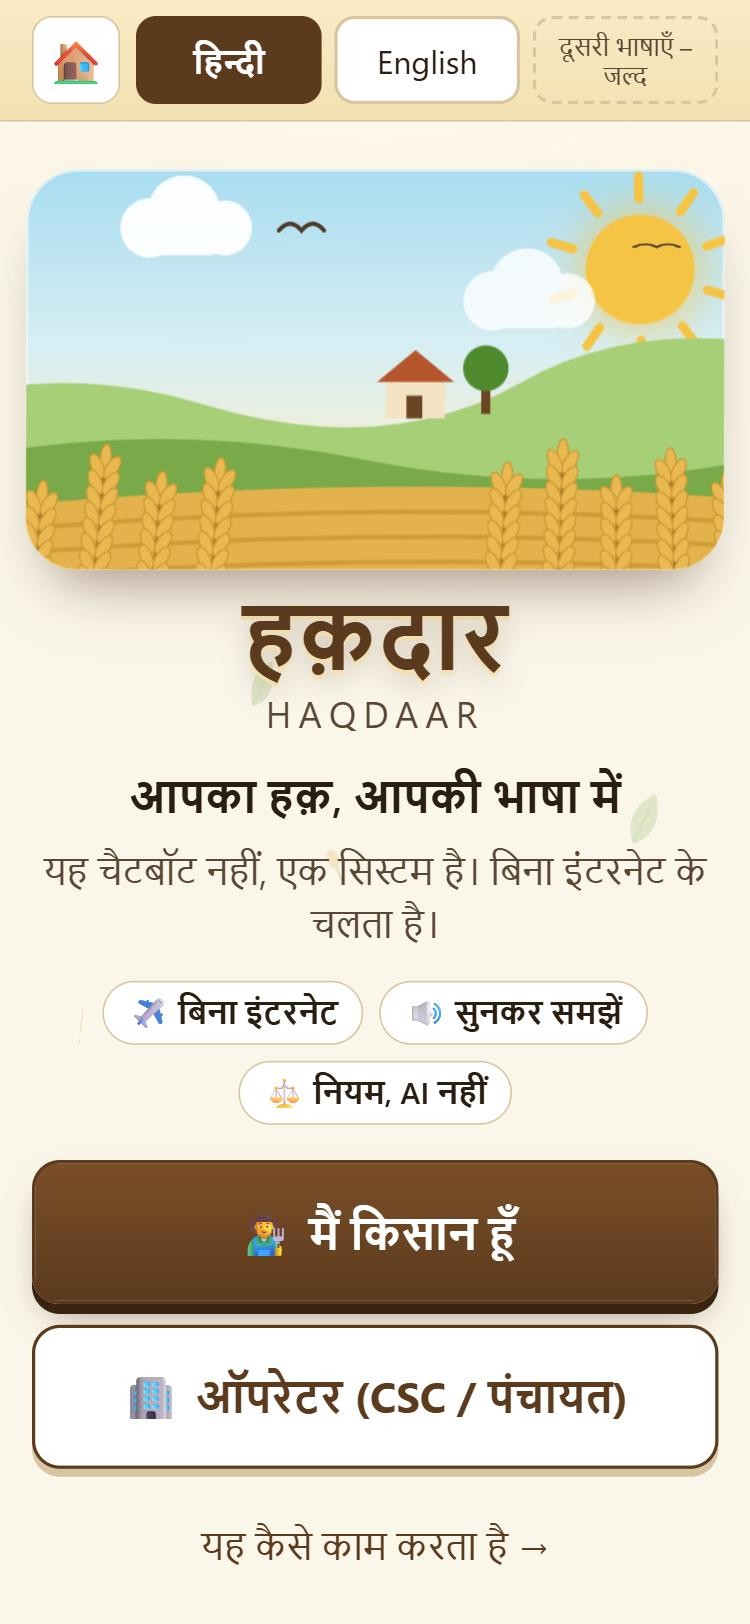
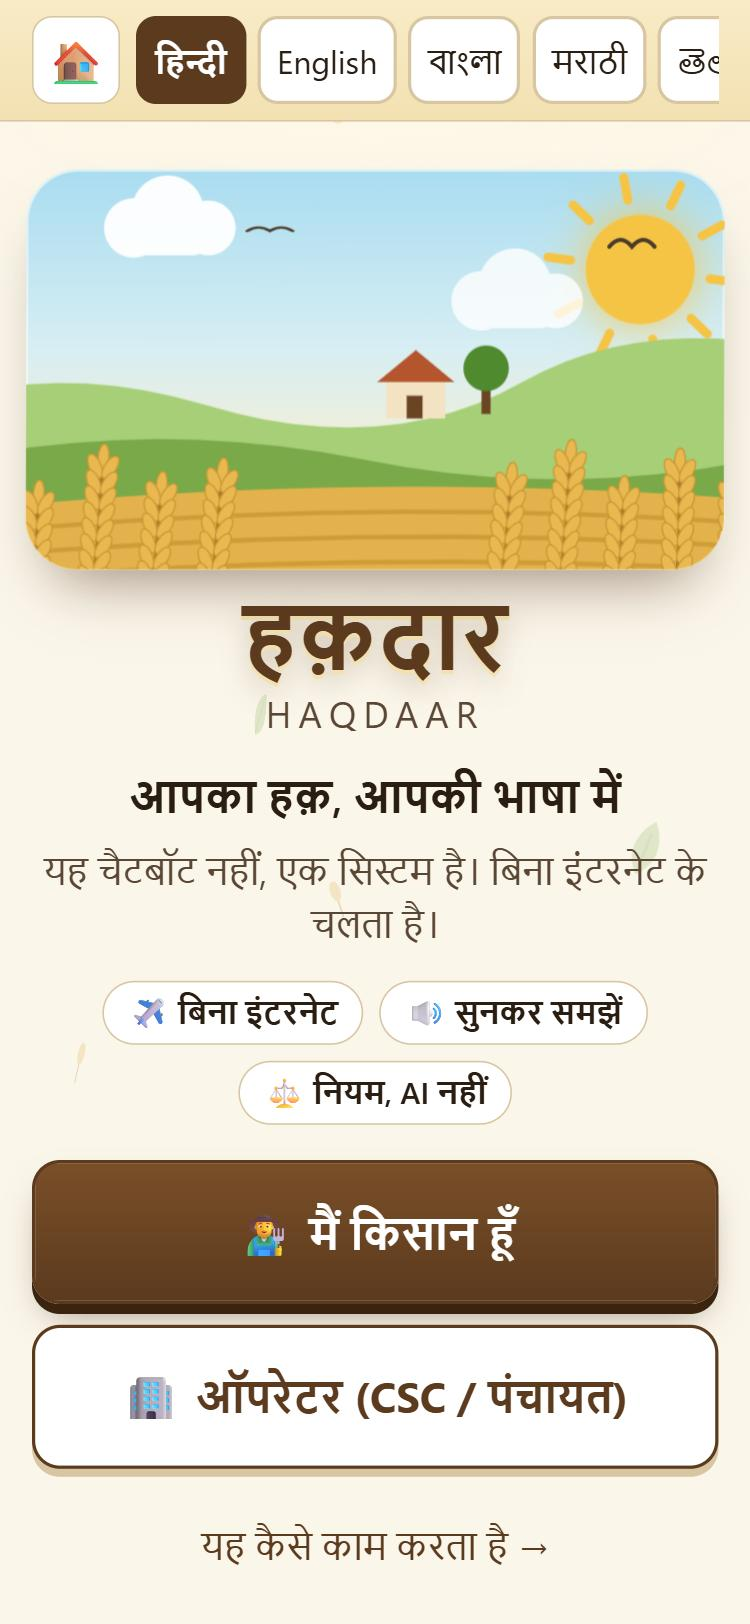
README: close the open ends
- Retake all screenshots from the current build; add a Telugu one.
- Sources table: West Bengal MKSN and top-up, PM-KMY cut-off, official
  links for every new scheme, and how each rule was checked.
- Crop lists now cite pmfby.gov.in; Rabi 2026-27 status stated.
- Real-phone test results, current checks, 59 tests, honest limits.
- Who built it, and a new AI tools section.

diff --git a/README.md b/README.md
@@ -4,7 +4,7 @@
 
 **Team Root Access** · Catalyst Hack 2026 · Track 07: AgriTech & Rural Innovation
 
-**Built by Team Root Access:** Chaarvi Saxena, Yashi Savita, Vivek Singh, Ishan Singh Bhadoria, Divyanshu Tripathi
+**Team Root Access:** Chaarvi Saxena, Yashi Savita, Vivek Singh, Ishan Singh Bhadoria, Divyanshu Tripathi · **Built by:** Chaarvi Saxena
 
 | | |
 |---|---|
@@ -32,6 +32,7 @@
 14. [Testing](#14-testing)
 15. [Project structure](#15-project-structure)
 16. [Honest limits](#16-honest-limits)
+17. [AI tools used](#17-ai-tools-used)
 
 ---
 
@@ -82,19 +83,21 @@ It has two modes in one app:
 
 **How Haqdaar differs from online checkers** such as Bharat-VISTAAR (155261) and myScheme: it works offline, gives a reason for every result, prints a plan on paper, and reminds the operator before deadlines.
 
-**Prototype scope:** 5 central schemes for all of India (PM-KISAN, PM Fasal Bima Yojana, Kisan Credit Card, Soil Health Card, PM Kisan Maandhan pension) and 5 state schemes (Maharashtra, Telangana, West Bengal, Tamil Nadu). The first question asks the farmer's state, and a state scheme shows only in its own state. The crop insurance list is for the demo district, Lucknow (Uttar Pradesh). Languages: Hindi, English, Bengali, Marathi, Punjabi, Tamil, Telugu.
+**Prototype scope:** 5 central schemes for all of India (PM-KISAN, PM Fasal Bima Yojana, Kisan Credit Card, Soil Health Card, PM Kisan Maandhan pension) and 6 state schemes in 4 states (Maharashtra, Telangana, West Bengal, Tamil Nadu). The first question asks the farmer's state, and a state scheme shows only in its own state. The crop insurance list is for the demo district, Lucknow (Uttar Pradesh). Languages: Hindi, English, Bengali, Marathi, Punjabi, Tamil, Telugu.
 
 ## 3. Screenshots
 
-All screenshots were taken from the live app (https://haqdaar-one.vercel.app/) on 1 Nov 2026, at phone width. The farmers shown are fictional examples.
+All screenshots were taken on 1 Nov 2026 at phone width (375 px) from the same build that is live at https://haqdaar-one.vercel.app/. The farmers shown are fictional examples.
 
 | Start page (Hindi) | One question per screen | Results with money card |
 |:---:|:---:|:---:|
-| <img src="docs/screenshots/01-start.jpg" width="230" alt="Start page in Hindi with the farm picture, the farmer button and the operator button"> | <img src="docs/screenshots/02-question.jpg" width="230" alt="Question 1 of 10 about land, with big answer buttons, a Listen button and a tractor progress bar"> | <img src="docs/screenshots/03-results.jpg" width="230" alt="Results page with the next deadline, the Haqdaar ID and Rs 6,000 a year from PM-KISAN"> |
+| <img src="docs/screenshots/01-start.jpg" width="230" alt="Start page in Hindi with the language row, the farm picture, the farmer button and the operator button"> | <img src="docs/screenshots/02-question.jpg" width="230" alt="Question 1 of 12: which state is your farm land in, with big answer buttons, a Listen button and a tractor progress bar"> | <img src="docs/screenshots/03-results.jpg" width="230" alt="Results page with the next deadline, the Haqdaar ID, Rs 6,000 a year from PM-KISAN and 5 schemes likely eligible"> |
 | **A scheme card: status, reasons, benefit, deadline, source** | **Checklist of papers to bring** | **Printable slip with QR code** |
-| <img src="docs/screenshots/04-scheme-card.jpg" width="230" alt="PM Fasal Bima Yojana card: likely eligible, two reasons, benefit, last date 31 December 2026 and the official source"> | <img src="docs/screenshots/05-checklist.jpg" width="230" alt="Checklist with tick boxes, 2 of 12 papers ready and an e-KYC tip"> | <img src="docs/screenshots/06-slip.jpg" width="230" alt="Slip with Haqdaar ID, QR code, each scheme's status and reason, and the papers to bring"> |
-| **Operator sign-in** | **Operator "Check only", in English** | **How it works / About** |
-| <img src="docs/screenshots/07-operator-signin.jpg" width="230" alt="Operator sign-in page with the Only check, without saving button"> | <img src="docs/screenshots/08-check-only-english.jpg" width="230" alt="Check only results in English for a landless sharecropper: PM-KISAN likely not eligible because it needs land in the family's name"> | <img src="docs/screenshots/09-about.jpg" width="230" alt="About page diagram: farmer phone or CSC operator, then questions, rules engine and results on the phone, then cloud sync only with internet"> |
+| <img src="docs/screenshots/04-scheme-card.jpg" width="230" alt="PM Fasal Bima Yojana card: likely eligible, two reasons, benefit, last date 31 December 2026 and the official source"> | <img src="docs/screenshots/05-checklist.jpg" width="230" alt="Checklist with tick boxes, 2 of 15 papers ready and an e-KYC tip"> | <img src="docs/screenshots/06-slip.jpg" width="230" alt="Slip with Haqdaar ID, QR code, each scheme's status and reason, and the papers to bring"> |
+| **Operator sign-in** | **Operator "Check only", in English: a West Bengal state scheme** | **How it works / About** |
+| <img src="docs/screenshots/07-operator-signin.jpg" width="230" alt="Operator sign-in page with the Only check, without saving button"> | <img src="docs/screenshots/08-check-only-english.jpg" width="230" alt="Check only result in English for a landless sharecropper in West Bengal: Mukhyamantri Krishak Samman Nidhi likely eligible, with every reason and the official source"> | <img src="docs/screenshots/09-about.jpg" width="230" alt="About page diagram: farmer phone or CSC operator, then questions, rules engine and results on the phone, then cloud sync only with internet"> |
+| **Telugu: Telangana state schemes** | | |
+| <img src="docs/screenshots/10-telugu-state-scheme.jpg" width="230" alt="Results in Telugu for a Telangana farmer: Rythu Bharosa and Rythu Bima likely eligible, with reasons, benefit and source"> | | |
 
 ## 4. Key features
 
@@ -122,7 +125,7 @@ All screenshots were taken from the live app (https://haqdaar-one.vercel.app/) o
 **For everyone**
 - Works in airplane mode after the first visit.
 - 7 languages (Hindi, English, Bengali, Marathi, Punjabi, Tamil, Telugu), switchable on every page.
-- State schemes for Maharashtra, Telangana, West Bengal and Tamil Nadu, shown only to farmers in that state.
+- 6 state schemes for Maharashtra, Telangana, West Bengal and Tamil Nadu, shown only to farmers in that state.
 - Each result links to the official scheme website and shows the date we last checked it.
 
 ## 5. Technology stack
@@ -159,7 +162,7 @@ All screenshots were taken from the live app (https://haqdaar-one.vercel.app/) o
 | vitest | 5.0.5 | Tests |
 | @types/qrcode, @types/react, @types/react-dom, @types/node | 1.5.6, 19.3.0, 19.3.0, 24.19.2 | TypeScript types |
 
-No PDF library is used. The slip is a normal page printed with the browser's Print / Save as PDF, so Hindi prints correctly.
+No PDF library is used. The slip is a normal page printed with the browser's Print / Save as PDF, so Hindi and every other Indian script print correctly.
 
 No code was written before 1 Nov 2026. All the code was written from scratch during the Grand Finale on 1 Nov 2026.
 
@@ -194,7 +197,7 @@ No code was written before 1 Nov 2026. All the code was written from scratch dur
 ### 6.2 The rules engine (`src/engine/`)
 
 1. **Questions → answers.** Up to 12 screens collect: state, land, land received after 1 Feb 2019, tenant/sharecropper, age, income tax, pension or government job, professional or elected post, bank–Aadhaar link and e-KYC, season and crop, Kisan Credit Card, last soil test.
-2. **Answers → facts** (`facts.ts`): `ownsLand`, `cultivates` (owns land or farms someone else's land), `cropNotified` (the farmer is in Uttar Pradesh and the crop is on the Lucknow insurance list for that season; elsewhere the farmer is asked to confirm the crop).
+2. **Answers → facts** (`facts.ts`): `ownsLand`, `cultivates` (owns land or farms someone else's land), `cropNotified` (the farmer is in Uttar Pradesh and the crop is on the Lucknow insurance list for that season; elsewhere the farmer is asked to confirm the crop at the office).
 3. **Facts → result** (`evaluate.ts`). Each scheme in `schemes.json` has conditions such as `{ field: "incomeTax", op: "notEquals", value: "yes", failAs: "not_eligible" }`. Every condition is checked, then:
    - any failed condition marked `not_eligible` → **likely not eligible** (a firm "no" always wins);
    - else, if the scheme's "already have" check passes → **already have it**;
@@ -391,14 +394,15 @@ No other code change is needed.
 | PMFBY crop insurance | For owners and tenants/sharecroppers. Crop not on the district list → ask the office. Farmer pays at most 2% (Kharif), 1.5% (Rabi food and oilseed crops), 5% (commercial and horticulture crops). Report crop loss within 72 hours; helpline 14447. | https://pmfby.gov.in (FAQ) and a reply in Parliament (Lok Sabha) | 1 Nov 2026 |
 | Kisan Credit Card | For anyone who farms. "Already have it" if they have a KCC or crop loan. Loans at 7%, 4% with prompt repayment; low-interest limit raised from ₹3 lakh to ₹5 lakh; collateral-free up to ₹2 lakh. | https://www.pib.gov.in/PressReleasePage.aspx?PRID=2238004 (PIB, 11 Mar 2026) | 1 Nov 2026 |
 | Soil Health Card | For anyone who farms. "Already have it" if the soil was tested in the last 2 years; otherwise the test is due. Card every 2 to 3 years (official pages give both). | https://soilhealth.dac.gov.in | 1 Nov 2026 |
-| PM Kisan Maandhan Yojana (pension, all India) | Land in your name, up to 2 ha (about 5 acres), age 18 to 40 when joining. Not for income-tax payers or people already in NPS, ESIC or EPFO. ₹3,000 a month after age 60; the farmer pays ₹55 to ₹200 a month and the government adds the same. | https://maandhan.in and the PM-KMY guidelines on pmkisan.gov.in | 1 Nov 2026 |
-| Namo Shetkari Mahasanman Nidhi (Maharashtra only) | Same rules as PM-KISAN. ₹6,000 a year from the state, on top of PM-KISAN. | https://www.myscheme.gov.in/schemes/namo-shetkari-mahasanman-nidhi-yojana | 1 Nov 2026 |
-| Rythu Bharosa (Telangana only) | For farmers with land in a pattadar passbook. Tenants with no land → ask the office. ₹12,000 per acre a year (₹6,000 per acre each season). | https://www.myscheme.gov.in (Telangana) | 1 Nov 2026 |
-| Rythu Bima (Telangana only) | Pattadar passbook holders aged 18 to 59. ₹5 lakh to the family on the farmer's death; the state pays the premium. | https://www.myscheme.gov.in/schemes/rythu-bima | 1 Nov 2026 |
-| Krishak Bandhu (West Bengal only) | Farmers and recorded sharecroppers (bargadars). Up to ₹10,000 a year (at least ₹4,000 below 1 acre). ₹2 lakh death benefit for ages 18 to 60. | https://krishakbandhu.wb.gov.in | 1 Nov 2026 |
-| CM Uzhavar Pathukappu Thittam (Tamil Nadu only) | Cultivators and tenants aged 18 to 65 with wet land up to 2.5 acres or dry land up to 5 acres. 1 to 5 acres or age 60+ → ask the office (wet/dry limit, age limit 65). Farm workers → ask the office. Benefit amounts are not given; the farmer asks the office. | https://oap.tn.gov.in/cmupt | 1 Nov 2026 |
+| PM Kisan Maandhan Yojana (pension, all India) | Land in your name, up to 2 ha (about 5 acres), in the land records by 1 Aug 2019 (land got after Feb 2019 → ask at the CSC), age 18 to 40 when joining. ₹3,000 a month after age 60; the farmer pays ₹55 to ₹200 a month and the government adds the same. Income-tax payers and people with a government job or big pension → not eligible; people already in NPS, ESIC or EPFO cannot join (note on the slip). | https://www.pib.gov.in/PressReleaseIframePage.aspx?PRID=2053142 (PIB, 9 Sep 2024) | 1 Nov 2026 |
+| Namo Shetkari Mahasanman Nidhi (Maharashtra only) | Farmers eligible for PM-KISAN get it, so the same rules as PM-KISAN. ₹6,000 a year from the state in 3 instalments, on top of PM-KISAN (Government Resolution of 15 Jun 2023). | https://www.myscheme.gov.in/schemes/namo-shetkari-mahasanman-nidhi-yojana | 1 Nov 2026 |
+| Rythu Bharosa (Telangana only) | For farmers with land in a pattadar passbook. Tenants with no land → ask the office. ₹12,000 per acre a year (₹6,000 per acre each season). | https://www.newsonair.gov.in/telangana-farmers-to-receive-₹12000-per-acre-annually-under-rythu-bharosa-scheme/ (All India Radio) | 1 Nov 2026 |
+| Rythu Bima (Telangana only) | Pattadar passbook (or RoFR patta) holders aged 18 to 59. ₹5 lakh to the nominee on the farmer's death, natural or accidental; the state pays the premium. | https://www.myscheme.gov.in/schemes/rythu-bima | 1 Nov 2026 |
+| PM-KISAN top-up (West Bengal only) | Same rules as PM-KISAN. ₹3,000 a year more from the state, in 3 instalments of ₹1,000, so ₹9,000 a year in all. | WB Agriculture Dept notification No. 1128-AG/O/9M(Nab)-56/2026, 29 Oct 2026: https://krishakbandhu.wb.gov.in/download_notification16 | 1 Nov 2026 |
+| Mukhyamantri Krishak Samman Nidhi, MKSN (West Bengal only) | Replaces Krishak Bandhu (same notification). For families not on PM-KISAN: land owners, registered bargadars, sharecroppers and patta holders with a land record. Same exclusions as PM-KISAN. ₹6,000 a year for 40 decimals or more, ₹4,000 below that, in Kharif and Rabi instalments. Sharecropper → likely eligible if recorded; land owner → ask the office (PM-KISAN farmers get the top-up instead). Land held on 1 Jul 2026 counts. | Same notification | 1 Nov 2026 |
+| CM Uzhavar Pathukappu Thittam (Tamil Nadu only) | Cultivators, cultivating tenants and landless farm workers aged 18 to 65; land worked up to 2.5 acres wet or 5 acres dry. 1 to 5 acres or age 60+ → ask the office (wet/dry limit, age limit 65). Farm workers → ask the office. Cash help for education, marriage, natural and accidental death, and a pension while unable to work; the official page gives no amounts. | https://oap.tn.gov.in/cmupt | 1 Nov 2026 |
 
-**How the new rules were checked:** on 1 Nov 2026 through web searches that found the official portals above, myScheme (the Government of India scheme portal) and news reports. Some details were only on third-party sites, so each official link should still be opened once by a person before the demo. Punjab has no state scheme yet: we did not find one with clear, official rules, so Punjab farmers see the central schemes and a "State scheme – soon" card.
+**How the new rules were checked (1 Nov 2026):** each rule above was read on the linked official page: myScheme (the Government of India scheme portal) for Namo Shetkari and Rythu Bima, the Tamil Nadu government portal for Uzhavar Pathukappu, PIB for PM Kisan Maandhan, All India Radio for Rythu Bharosa, and the West Bengal Agriculture Department's own notification for MKSN and the top-up. Two details come from secondary sources only and are marked "ask the office" or kept as a note: the PM Kisan Maandhan exclusion list (the official pages say exclusions exist but do not list them), and Rythu Bharosa for tenant farmers. Punjab has no state scheme yet: we did not find one with clear, official rules, so Punjab farmers see the central schemes and a "State scheme – soon" card.
 
 **Demo area:** Lucknow district, Uttar Pradesh.
 
@@ -406,12 +410,12 @@ No other code change is needed.
 
 | Season | Crops in Haqdaar | Last date in Haqdaar | How sure we are |
 |---|---|---|---|
-| Kharif | paddy, bajra, maize, jowar, urad | 31 Jul | **Crops: from the district office.** Lucknow's Deputy Agriculture Director named these five crops for Kharif 2026 ([Saahas Samachar, 7 Aug 2026](https://www.saahassamachar.in/opportunity-for-lucknow-farmers-to-avail-crop-insurance-applications-open-until-august-14-and-31)). **Date: usual date.** In 2026 UP extended Kharif enrolment past 31 July; we keep 31 July until UP notifies Kharif 2027. |
-| Rabi | wheat, mustard, potato | 31 Dec | **Date: from the state cabinet decision.** UP's cabinet decision on PMFBY for Kharif 2026 to Rabi 2026-27 set the Rabi last date at 31 December ([News Nation, 4 Aug 2026](https://www.newsnationtv.com/states/uttar-pradesh/major-relief-for-up-farmers-insurance-coverage-for-crop-loss-yogi-cabinet-grants-approval-12227594)). **Crops: still a draft.** This is the UP Rabi 2025-26 list; the Lucknow Rabi 2026-27 list was not online on 1 Nov 2026. |
+| Kharif | paddy, bajra, urad | 31 Jul | **Crops: official.** pmfby.gov.in → Insurance Premium Calculator → Kharif 2026, Uttar Pradesh, Lucknow lists Black Gram (Urad), Paddy (Dhan) and Pearl Millet (Bajra). A news report ([Saahas Samachar, 7 Aug 2026](https://www.saahassamachar.in/opportunity-for-lucknow-farmers-to-avail-crop-insurance-applications-open-until-august-14-and-31)) also named maize and jowar, but the portal does not, so a farmer growing them is told to confirm at the office. **Date: usual date.** In 2026 UP extended Kharif enrolment past 31 July; we keep 31 July until UP notifies Kharif 2027. |
+| Rabi | wheat, mustard, potato, gram (chana), lentil (masur) | 31 Dec | **Crops: official list for Rabi 2025-26.** pmfby.gov.in → Insurance Premium Calculator → Rabi 2025-26, Uttar Pradesh, Lucknow lists Bengal Gram (Chana), Lentil (Masur), Mustard, Potato and Wheat. For Rabi 2026-27 the portal does not list Uttar Pradesh yet (checked 1 Nov 2026), so last season's list is used until it appears. **Date: from the state cabinet decision.** UP's cabinet decision on PMFBY for Kharif 2026 to Rabi 2026-27 set the Rabi last date at 31 December ([News Nation, 4 Aug 2026](https://www.newsnationtv.com/states/uttar-pradesh/major-relief-for-up-farmers-insurance-coverage-for-crop-loss-yogi-cabinet-grants-approval-12227594)). |
 
-Both sources are news reports of official decisions, not the notification itself. To confirm: pmfby.gov.in → Insurance Premium Calculator (Rabi 2026-27, Uttar Pradesh, Lucknow) lists only the notified crops; or ask the Deputy Director of Agriculture office in Lucknow, a bank branch or the PMFBY helpline 14447. Changing the list needs no code: edit `notifiedCrops` in `src/engine/schemes.json` and add the crop names to the translation files.
+When UP's Rabi 2026-27 list appears in the premium calculator, compare it with the list above. Changing the list needs no code: edit `notifiedCrops` in `src/engine/schemes.json` and add any new crop names to the translation files.
 
-**State scheme left out:** Mukhyamantri Krishak Durghatna Kalyan Yojana, UP (Government Order No. 1/2020/मु0स0-11/एक-9-2020-2एफ/2018, Revenue Section-9, dated 28 Feb 2020). We read the GO text but could not yet confirm it on an official government site. We do not add rules we have not confirmed, so UP farmers see the central schemes and a "State scheme – soon" card.
+**State scheme left out:** Mukhyamantri Krishak Durghatna Kalyan Yojana, UP (Government Order No. 1/2020/मु0स0-11/एक-9-2020-2एफ/2018, Revenue Section-9, dated 28 Feb 2020). We read the GO text on a third-party site. The spec says a person must confirm it on shasanadesh.up.gov.in and find the scheme page on bor.up.nic.in before it goes in, and that has not been done yet. We do not add rules we have not confirmed, so UP farmers see the central schemes and a "State scheme – soon" card.
 
 Helplines printed on every slip: Bharat-VISTAAR **155261**, PMFBY **14447**.
 
@@ -421,18 +425,22 @@ Helplines printed on every slip: Bharat-VISTAAR **155261**, PMFBY **14447**.
 npx vitest run
 ```
 
-**Result on 1 Nov 2026: 55 tests passing, 1 skipped** (the UP state-scheme test, because that scheme is left out).
+**Result on 1 Nov 2026: 59 tests passing, 1 skipped** (the UP state-scheme test, because that scheme is left out).
 
 | Test file | What it checks |
 |---|---|
-| `src/engine/engine.test.ts` | Every eligibility rule (clean farmer, no land, tenant, each exclusion, "don't know" answers, firm "no" beats "ask the office" and "already have"), tips, PMFBY deadlines for Rabi and Kharif, the follow-up list, the pension and state-scheme rules, state schemes showing only in their own state, every result has a reason with text in every live language, and 10,000 Haqdaar IDs with no repeats |
+| `src/engine/engine.test.ts` | Every eligibility rule (clean farmer, no land, tenant, each exclusion, "don't know" answers, firm "no" beats "ask the office" and "already have"), tips, PMFBY deadlines for Rabi and Kharif, the follow-up list, the official Lucknow crop lists, the pension and state-scheme rules (including West Bengal MKSN and the top-up), state schemes showing only in their own state, every result has a reason with text in every live language, and 10,000 Haqdaar IDs with no repeats |
 | `src/shared/i18n.test.ts` | Every live language has all five files with exactly the same lines as Hindi; text falls back to Hindi |
 | `src/features/firebase/emailCheck.test.ts` | Good emails pass; badly written, misspelt, test and throwaway emails are refused |
 
-**Checked on the live app on 1 Nov 2026:**
-- Served by Vercel over HTTPS; the service worker (`sw.js`) and app manifest load.
-- Farmer mode end to end in Hindi: all questions, results, checklist, slip with QR code.
-- Operator "Check only" end to end in English for a landless sharecropper: PM-KISAN likely not eligible (needs land), PMFBY likely eligible, KCC already have it, Soil Health Card likely eligible.
+**Checked on a real Android phone in Chrome, on the live HTTPS link, in airplane mode (1 Nov 2026):** offline install, the Listen button in Hindi and English, printing the slip, reopening operator mode offline while signed in, and sync after reconnecting. All worked. Bengali, Marathi, Punjabi, Tamil and Telugu were added after this test, so their Listen voices and printed slips on the phone are still to be checked.
+
+**Checked at phone width (375 px) on the current build, 1 Nov 2026** (the same build that is live):
+- Served by Vercel over HTTPS; the service worker (`sw.js`) and app manifest load; the live bundle contains the new languages and schemes.
+- Farmer mode end to end in Hindi for Ramvati: 12 questions, 5 schemes likely eligible, checklist, slip with QR code.
+- Farmer mode end to end in Telugu for Lakshmi (Telangana): results as in the table below, including Rythu Bharosa and Rythu Bima.
+- Operator "Check only" end to end in English for a landless sharecropper in West Bengal: PM-KISAN likely not eligible (needs land), PMFBY ask the office (crop list is for Lucknow), KCC already have it, Soil Health Card likely eligible, PM-KISAN top-up likely not eligible, MKSN likely eligible.
+- Bengali slip at 360 px, and a Tamil question flow at 360 px: no text runs off the screen and the page never scrolls sideways.
 
 **Demo farmers** (fictional examples; no real farmer's data is used):
 
@@ -473,9 +481,20 @@ haqdaar/
 - It says **"likely eligible"**. The government department makes the final decision.
 - It cannot submit applications or see a farmer's official application status.
 - The rules must be kept up to date by hand when schemes change.
-- The prototype covers **5 central schemes** and **5 state schemes in 4 states**. The crop insurance list covers **one demo district (Lucknow, UP)**; elsewhere the farmer is told to confirm their crop at the office.
+- The prototype covers **5 central schemes** and **6 state schemes in 4 states**. The crop insurance list covers **one demo district (Lucknow, UP)**; elsewhere the farmer is told to confirm their crop at the office.
 - **7 languages** are live. Other Indian languages are listed but switched off.
-- The new state-scheme rules (Section 13) were checked through web searches on 1 Nov 2026; each official page should be opened once by a person.
-- The Kharif crop list and the Rabi 31 Dec date come from news reports of official decisions (Section 13). The **Rabi 2026-27 crop list for Lucknow is still a draft** (last year's list) until the official notification is confirmed.
+- Two scheme details rest on secondary sources (Section 13): the PM Kisan Maandhan exclusion list and Rythu Bharosa for tenants. The app sends those farmers to the office instead of deciding.
+- The UP state scheme is left out until a person confirms its Government Order on an official site (Section 13).
+- The Lucknow crop lists come from pmfby.gov.in. The **Rabi 2026-27 list is last season's** until UP's list appears on the portal, and the Rabi 31 Dec date comes from a news report of the state cabinet decision (Section 13).
 - Firebase does not promise that an operator stays signed in when the app is reopened with no internet. If the sign-in is lost offline, the app switches to "Check only" mode: results and the slip still work, but nothing is saved until the operator signs in online.
-- The Listen button needs the phone's voice data for that language to be installed.
+- The Listen button needs the phone's voice data for that language to be installed. The five newest languages are not yet tested on the real phone (Section 14).
+- The question asks about land got after 1 Feb 2019 (the PM-KISAN date). Other schemes use other dates (PM Kisan Maandhan: 1 Aug 2019; MKSN: 1 Jul 2026), so the app sends unsure cases to the office or prints the date as a note.
+
+## 17. AI tools used
+
+- **An AI coding assistant** was used throughout the build on 1 Nov 2026, directed and reviewed by the builder. It:
+  - wrote the app code and the tests, from the builder's written spec;
+  - drafted the English and Hindi text and the Bengali, Marathi, Punjabi, Tamil and Telugu translations, which the builder checked before switching them on;
+  - looked up scheme rules on the official sources listed in Section 13, and read the West Bengal notification from its scanned pages;
+  - took the screenshots and helped write this README.
+- **No AI runs inside Haqdaar.** Eligibility is decided by the fixed rules in `schemes.json`, on the phone, so the same answers always give the same result.
